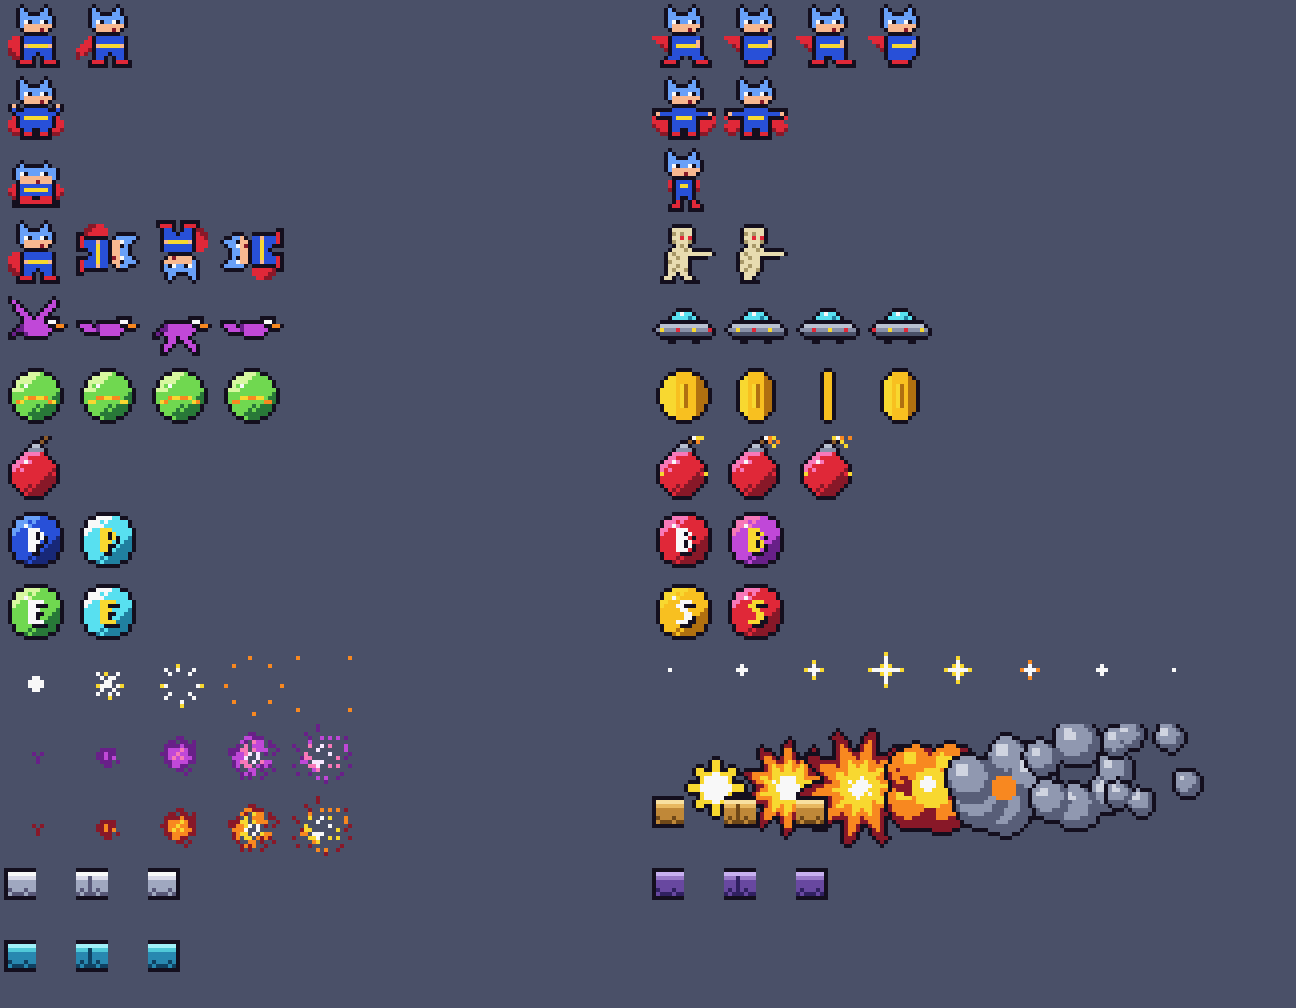
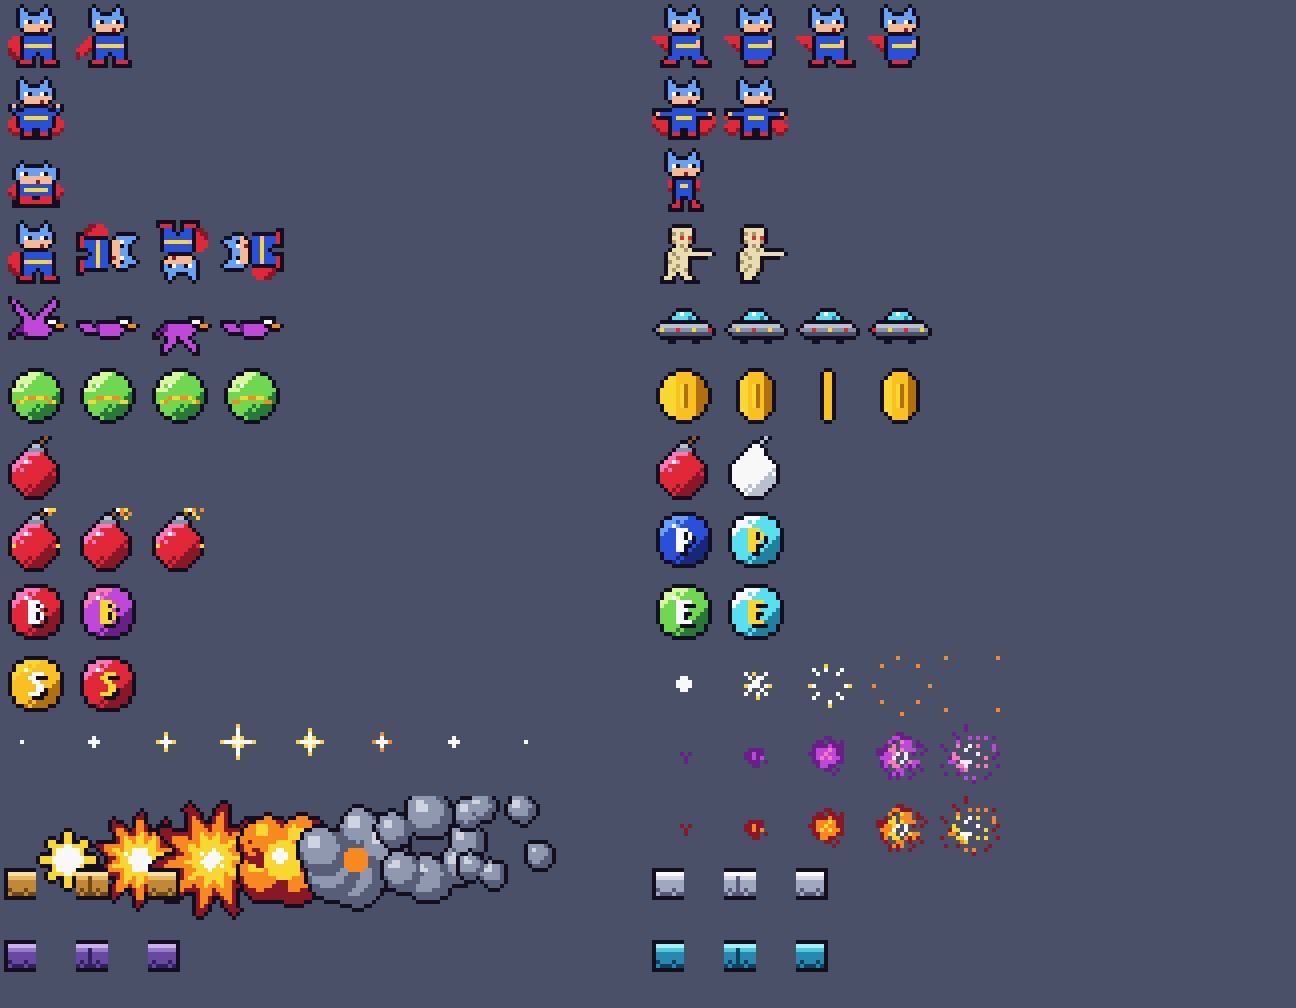
Grouped lit-bomb chain with a chain-start hint
- Levels are defined as bomb groups (rows/columns); the lit order
  visits groups in zig-zag order and lights bombs within a group left
  to right (rows) or top to bottom (columns)
- Taking a bomb lights the next one after it in the order, so a whole
  group can be swept in one run or drop
- While nothing is lit, the chain-start bomb flashes white after 3 s
  (rules.HintBomb + new bomb_flash animation)
- Autoshot idle mode (ROUND=0i) for capturing input-free rounds
- Tests for group ordering, run-through and the hint; update README
  and PLAN progress log

diff --git a/assets/preview/index.html b/assets/preview/index.html
@@ -71,6 +71,10 @@ canvas,img{image-rendering:pixelated}
 <div class="name">bomb</div><div class="meta">1 frame(s) @ 1 fps</div>
[1 lines of base64/hex data omitted]
 </div><div class="card">
[1 lines of base64/hex data omitted]
+<div class="name">bomb_flash</div><div class="meta">2 frame(s) @ 5 fps</div>
[1 lines of base64/hex data omitted]
+</div><div class="card">
[1 lines of base64/hex data omitted]
 <div class="name">bomb_lit</div><div class="meta">3 frame(s) @ 12 fps</div>
[1 lines of base64/hex data omitted]

diff --git a/internal/level/level.go b/internal/level/level.go
@@ -37,15 +37,10 @@ func col(x, y float64, n int, step float64) []world.Vec {
 	return out
 }
 
-func join(parts ...[]world.Vec) []world.Vec {
-	var out []world.Vec
-	for _, p := range parts {
-		out = append(out, p...)
-	}
-	return out
-}
+// groups bundles bomb groups (each a row or column) for mk.
+func groups(parts ...[]world.Vec) [][]world.Vec { return parts }
 
-// zigzag orders bombs top to bottom, alternating between the left and right
+// zigzag orders positions top to bottom, alternating between the left and right
 // halves of the field, so the lit fuse jumps across the screen.
 func zigzag(bombs []world.Vec) []int {
 	idx := make([]int, len(bombs))
@@ -79,8 +74,29 @@ func zigzag(bombs []world.Vec) []int {
 	return out
 }
 
-func mk(name string, plats []world.Platform, bombs []world.Vec, cfg enemy.Config) Def {
-	return Def{Name: name, Platforms: plats, Bombs: bombs, LitOrder: zigzag(bombs),
+// groupOrder builds the lit order from bomb groups: groups are visited in
+// zig-zag order of their first bomb, and within a group bombs light in the
+// order they were laid out (row: left to right, col: top to bottom), so a
+// whole group can be cleared in one run or one drop.
+func groupOrder(gs [][]world.Vec) (bombs []world.Vec, order []int) {
+	firsts := make([]world.Vec, len(gs))
+	start := make([]int, len(gs))
+	for i, g := range gs {
+		firsts[i] = g[0]
+		start[i] = len(bombs)
+		bombs = append(bombs, g...)
+	}
+	for _, gi := range zigzag(firsts) {
+		for k := range gs[gi] {
+			order = append(order, start[gi]+k)
+		}
+	}
+	return bombs, order
+}
+
+func mk(name string, plats []world.Platform, gs [][]world.Vec, cfg enemy.Config) Def {
+	bombs, order := groupOrder(gs)
+	return Def{Name: name, Platforms: plats, Bombs: bombs, LitOrder: order,
 		PlayerStart: world.Vec{X: 120, Y: world.FloorY}, Enemies: cfg}
 }
 
@@ -91,25 +107,25 @@ var topSpawns = []world.Vec{{X: 24, Y: 0}, {X: 120, Y: 0}, {X: 216, Y: 0}}
 var Levels = []Def{
 	mk("egypt",
 		[]world.Platform{P(3, 7, 8), P(21, 7, 8), P(11, 13, 10), P(2, 19, 6), P(24, 19, 6)},
-		join(row(32, 38, 3, 16), row(176, 38, 3, 16), row(100, 86, 4, 16),
+		groups(row(32, 38, 3, 16), row(176, 38, 3, 16), row(100, 86, 4, 16),
 			row(24, 134, 3, 16), row(192, 134, 3, 16),
 			col(4, 70, 3, 18), col(236, 70, 3, 18), row(112, 190, 2, 16)),
 		enemy.Config{Spawns: topSpawns, Mix: [3]int{4, 2, 1}, MaxEnemies: 3, StartCount: 1, SpawnEvery: 720, Speed: 0.8}),
 	mk("greece",
 		[]world.Platform{P(12, 6, 8), P(2, 11, 7), P(23, 11, 7), P(12, 17, 8)},
-		join(row(100, 30, 4, 16), row(20, 70, 3, 16), row(188, 70, 3, 16), row(100, 118, 4, 16),
+		groups(row(100, 30, 4, 16), row(20, 70, 3, 16), row(188, 70, 3, 16), row(100, 118, 4, 16),
 			row(20, 190, 3, 16), row(188, 190, 3, 16),
 			col(4, 130, 2, 20), col(236, 130, 2, 20)),
 		enemy.Config{Spawns: topSpawns, Mix: [3]int{3, 3, 2}, MaxEnemies: 5, StartCount: 2, SpawnEvery: 520, Speed: 0.95}),
 	mk("castle",
 		[]world.Platform{P(2, 6, 6), P(24, 6, 6), P(8, 12, 16), P(2, 19, 5), P(25, 19, 5)},
-		join(row(20, 30, 3, 16), row(196, 30, 3, 16), row(84, 78, 4, 24),
+		groups(row(20, 30, 3, 16), row(196, 30, 3, 16), row(84, 78, 4, 24),
 			row(20, 134, 3, 16), row(204, 134, 3, 16),
 			col(4, 70, 3, 20), col(236, 70, 3, 20), row(116, 190, 2, 16)),
 		enemy.Config{Spawns: topSpawns, Mix: [3]int{2, 4, 2}, MaxEnemies: 6, StartCount: 2, SpawnEvery: 400, Speed: 1.15}),
 	mk("city",
 		[]world.Platform{P(5, 8, 6), P(21, 8, 6), P(13, 14, 6)},
-		join(row(44, 46, 3, 16), row(172, 46, 3, 16), row(108, 94, 3, 16), row(96, 20, 4, 16),
+		groups(row(44, 46, 3, 16), row(172, 46, 3, 16), row(108, 94, 3, 16), row(96, 20, 4, 16),
 			col(4, 40, 4, 30), col(236, 40, 4, 30), row(60, 190, 1, 0), row(116, 190, 1, 0), row(172, 190, 1, 0)),
 		enemy.Config{Spawns: topSpawns, Mix: [3]int{2, 3, 4}, MaxEnemies: 7, StartCount: 3, SpawnEvery: 280, Speed: 1.4}),
 }

diff --git a/internal/rules/rules_test.go b/internal/rules/rules_test.go
@@ -49,8 +49,15 @@ func TestFullLitChain(t *testing.T) {
 			lit = i
 		}
 	}
-	if lit != order[0] {
-		t.Fatalf("lit %d want %d", lit, order[0])
+	// the bomb lit is the one after bomb 5 in the order
+	pos := 0
+	for i, idx := range order {
+		if idx == 5 {
+			pos = i
+		}
+	}
+	if want := order[(pos+1)%len(order)]; lit != want {
+		t.Fatalf("lit %d want %d", lit, want)
 	}
 	count := 0
 	for lit >= 0 && count < 30 {
@@ -63,11 +70,8 @@ func TestFullLitChain(t *testing.T) {
 			}
 		}
 	}
-	if s.LitCount != 22 { // 23 remaining after first, but 5 was skipped in chain => 23 lit
-		// chain covers all 23 other bombs
-		if s.LitCount != 23 {
-			t.Fatalf("litcount %d", s.LitCount)
-		}
+	if s.LitCount != 23 { // the chain covers all 23 bombs after the first
+		t.Fatalf("litcount %d", s.LitCount)
 	}
 	if w.BombsLeft() != 0 {
 		t.Fatalf("left %d", w.BombsLeft())
@@ -184,5 +188,46 @@ func TestPickupMoverBounds(t *testing.T) {
 		if p.Pos.X < -0.01 || p.Pos.X > 240.01 || p.Pos.Y < -0.01 || p.Pos.Y > world.FloorY+0.01 {
 			t.Fatalf("out of bounds %v", p.Pos)
 		}
+	}
+}
+
+func TestHintBomb(t *testing.T) {
+	w := world.New(1)
+	for i := 0; i < 4; i++ {
+		w.Bombs = append(w.Bombs, &world.Bomb{Pos: world.Vec{X: float64(i * 20)}})
+	}
+	s := NewForLevel([]int{2, 3, 0, 1}, 0)
+	if got := s.HintBomb(w); got != 2 {
+		t.Fatalf("hint = %d, want 2 (first in LitOrder)", got)
+	}
+	w.Bombs[2].Taken = true // taken out of the world by other means
+	if got := s.HintBomb(w); got != 3 {
+		t.Fatalf("hint = %d, want 3 (first not taken)", got)
+	}
+	w.Bombs[0].Taken = true
+	w.Events = []world.Event{{Kind: world.EvBombTaken, Index: 0}}
+	s.Apply(w)
+	if got := s.HintBomb(w); got != -1 {
+		t.Fatalf("hint = %d after the chain started, want -1", got)
+	}
+}
+
+// Taking the first bomb of a group lights its neighbour, so running through
+// the group takes every bomb lit.
+func TestRunThroughGroup(t *testing.T) {
+	w := world.New(1)
+	for i := 0; i < 6; i++ {
+		w.Bombs = append(w.Bombs, &world.Bomb{Pos: world.Vec{X: float64(i * 16)}})
+	}
+	s := NewForLevel([]int{3, 4, 5, 0, 1, 2}, 0) // two groups of three
+	take(s, w, 0)                                // enter group 2 at its start
+	for _, i := range []int{1, 2} {
+		if !w.Bombs[i].Lit {
+			t.Fatalf("bomb %d should be lit when reached", i)
+		}
+		take(s, w, i)
+	}
+	if !w.Bombs[3].Lit {
+		t.Fatal("chain should wrap to the next group")
 	}
 }

diff --git a/internal/rules/rules.go b/internal/rules/rules.go
@@ -108,9 +108,37 @@ func (s *State) gainMeter(w *world.World, n int) {
 	}
 }
 
-// lightNext lights the first not-taken bomb in LitOrder.
-func (s *State) lightNext(w *world.World) {
+// HintBomb returns the bomb index that starts the lit chain while no bomb
+// has been lit yet this round (taking it first lights its whole group in
+// sequence), or -1 once the chain has started.
+func (s *State) HintBomb(w *world.World) int {
+	if s.started {
+		return -1
+	}
+	for _, idx := range s.LitOrder {
+		if idx >= 0 && idx < len(w.Bombs) && !w.Bombs[idx].Taken {
+			return idx
+		}
+	}
+	return -1
+}
+
+// lightNext lights the next not-taken bomb after bomb `from` in LitOrder,
+// wrapping around. Because groups are consecutive in LitOrder, taking any
+// bomb of a row or column lights its neighbour, so a group can be cleared
+// in one run.
+func (s *State) lightNext(w *world.World, from int) {
+	n := len(s.LitOrder)
+	start := 0
 	for i, idx := range s.LitOrder {
+		if idx == from {
+			start = i + 1
+			break
+		}
+	}
+	for k := 0; k < n; k++ {
+		i := (start + k) % n
+		idx := s.LitOrder[i]
 		if idx >= 0 && idx < len(w.Bombs) && !w.Bombs[idx].Taken {
 			w.Bombs[idx].Lit = true
 			s.LitChain = i
@@ -143,7 +171,7 @@ func (s *State) Apply(w *world.World) {
 			}
 			if !s.started || e.Lit {
 				s.started = true
-				s.lightNext(w)
+				s.lightNext(w, e.Index)
 			}
 		case world.EvPickupTaken:
 			switch e.Pickup {

diff --git a/internal/level/level_test.go b/internal/level/level_test.go
@@ -40,3 +40,30 @@ func TestLevels(t *testing.T) {
 		}
 	}
 }
+
+// Groups light one by one in layout order: rows left to right, columns top
+// to bottom, and a group is never interleaved with another.
+func TestGroupOrder(t *testing.T) {
+	gs := groups(
+		row(150, 100, 3, 16), // right, lower
+		col(4, 20, 3, 20),    // left column, top
+		row(40, 60, 2, 16),   // left, middle
+	)
+	bombs, order := groupOrder(gs)
+	if len(bombs) != 8 || len(order) != 8 {
+		t.Fatalf("got %d bombs, %d order", len(bombs), len(order))
+	}
+	// zig-zag by first bomb alternates sides: left col (y20), right row
+	// (y100), then left row (y60)
+	want := []int{3, 4, 5, 0, 1, 2, 6, 7}
+	for i := range want {
+		if order[i] != want[i] {
+			t.Fatalf("order = %v, want %v", order, want)
+		}
+	}
+	for i := 1; i < 3; i++ { // column lights top to bottom
+		if bombs[order[i]].Y <= bombs[order[i-1]].Y {
+			t.Fatalf("column not top to bottom: %v", order)
+		}
+	}
+}

diff --git a/internal/game/play.go b/internal/game/play.go
@@ -46,6 +46,7 @@ const (
 	clearTicks = 200
 	landTicks  = 6
 	turnTicks  = 5
+	hintDelay  = 180 // ticks before the chain-start bomb starts flashing
 )
 
 // Play runs the game session: one Play per round, rules carried across.
@@ -283,13 +284,20 @@ func (p *Play) drawFrame(g *Game, screen *ebiten.Image) {
 	for _, pl := range w.Platforms {
 		s.DrawPlatform(screen, w.Level, float64(pl.TX*world.Tile), float64(pl.TY*world.Tile+HUDH), pl.Len)
 	}
-	for _, b := range w.Bombs {
+	hint := -1
+	if w.Tick > hintDelay {
+		hint = p.Rules.HintBomb(w)
+	}
+	for i, b := range w.Bombs {
 		if b.Taken {
 			continue
 		}
 		name := "bomb"
-		if b.Lit {
+		switch {
+		case b.Lit:
 			name = "bomb_lit"
+		case i == hint:
+			name = "bomb_flash"
 		}
 		s.Draw(screen, name, w.Tick, b.Pos.X, b.Pos.Y+HUDH, false)
 	}

diff --git a/internal/game/autoshot.go b/internal/game/autoshot.go
@@ -20,7 +20,7 @@ import (
 type Autoshot struct {
 	dir   string
 	ticks []int
-	idle  bool // round < 0: stay on the title screen, no input
+	idle  bool // no input (always for round < 0, which stays on the title)
 }
 
 func autoshotFromEnv(g *Game) *Autoshot {
@@ -32,8 +32,10 @@ func autoshotFromEnv(g *Game) *Autoshot {
 	if len(parts) != 3 {
 		return nil
 	}
-	round, _ := strconv.Atoi(parts[1])
-	a := &Autoshot{dir: parts[0]}
+	// "3i" = round 3 with no input (idle), e.g. to see the hint flash
+	idle := strings.HasSuffix(parts[1], "i")
+	round, _ := strconv.Atoi(strings.TrimSuffix(parts[1], "i"))
+	a := &Autoshot{dir: parts[0], idle: idle}
 	for _, s := range strings.Split(parts[2], ",") {
 		if n, err := strconv.Atoi(s); err == nil {
 			a.ticks = append(a.ticks, n)

diff --git a/internal/art/procedural.go b/internal/art/procedural.go
@@ -82,8 +82,14 @@ func bomb(lit bool, frame int) *image.RGBA {
 }
 
 func bombAnims() []Anim {
+	plain := bomb(false, 0)
+	white := recolor([]*image.RGBA{plain}, map[color.RGBA]color.RGBA{
+		DarkRed: LightGrey, Red: White, Pink: White, Grey: White, LightGrey: White, Brown: LightGrey,
+	})[0]
 	return []Anim{
-		{Name: "bomb", Frames: []*image.RGBA{bomb(false, 0)}, FPS: 1, Loop: true},
+		{Name: "bomb", Frames: []*image.RGBA{plain}, FPS: 1, Loop: true},
+		// hint flash for the bomb that starts the lit chain
+		{Name: "bomb_flash", Frames: []*image.RGBA{plain, white}, FPS: 5, Loop: true},
 		{Name: "bomb_lit", Frames: []*image.RGBA{bomb(true, 0), bomb(true, 1), bomb(true, 2)}, FPS: 12, Loop: true},
 	}
 }

diff --git a/README.md b/README.md
@@ -11,7 +11,7 @@ inspired by Tehkan's 1984 arcade classic. Jack leaps and floats around four scre
 - **4 levels:** Egypt, Greece, Castle and City. After City they loop with higher difficulty.
 - **Classic mechanics:**
   - high jumps, and mid-air **float**
-  - the **lit-bomb chain** with a round-end bonus
+  - the **lit-bomb chain** with a round-end bonus. Bombs come in rows and columns that light one by one (rows left to right, columns top to bottom), so you can sweep a whole group in one run or one drop. Before the first pickup, the bomb that starts the chain flashes white as a hint.
   - a bonus meter that releases the **P** power ball, which turns enemies into coins
   - **B** (multiplier), **E** (extra life) and **S** (special) power-ups
 - **All graphics are generated in Go code** ([internal/art](internal/art)), with no image files:
@@ -85,7 +85,7 @@ The `web/` folder is static, so it can be hosted anywhere.
 | `make test` | Run all unit tests. Game logic is headless and runs without a window |
 | `make lint` | gofmt check + `go vet` |
 | `make sprites` | Render all sprites/backgrounds to `assets/` plus an animated preview at `assets/preview/index.html` |
-| `make shots ROUND=2 TICKS=300,900` | Autopilot run that saves screenshots to `shots/` (`ROUND=-1` = title screen) |
+| `make shots ROUND=2 TICKS=300,900` | Autopilot run that saves screenshots to `shots/` (`ROUND=-1` = title screen, `ROUND=0i` = round 0 with no input) |
 | `make web` / `make serve` | Build or serve the WebAssembly version |
 
 The design, architecture and the multi-agent implementation plan are in [PLAN.md](PLAN.md).

diff --git a/PLAN.md b/PLAN.md
@@ -240,3 +240,7 @@ and must not edit packages it does not own. To ask for a contract change, leave 
   - **Flying:** each mid-air jump tap gives a small lift (`FloatLift`) and a short slow-fall (`FloatHold`). After that, gravity ramps back over `FloatDecay`, so staying up needs repeated tapping.
   - **Bomb pickups:** a cartoon "boom" (32px), trailing flares, bouncing embers, swelling steam puffs, and a screen shake. Lit bombs get a bigger version.
   - **Title screen:** the high-score table fits inside its panel.
+- **2026-10-05 — Grouped lit chain.**
+  - Levels are defined as bomb groups (rows/columns). LitOrder visits groups in zig-zag order, and bombs within a group in layout order.
+  - Taking a bomb lights the *next* bomb after it in LitOrder, so a whole group can be swept in one run or drop.
+  - While nothing is lit, the chain-start bomb flashes white after 3 s (`rules.HintBomb`, art `bomb_flash`).
